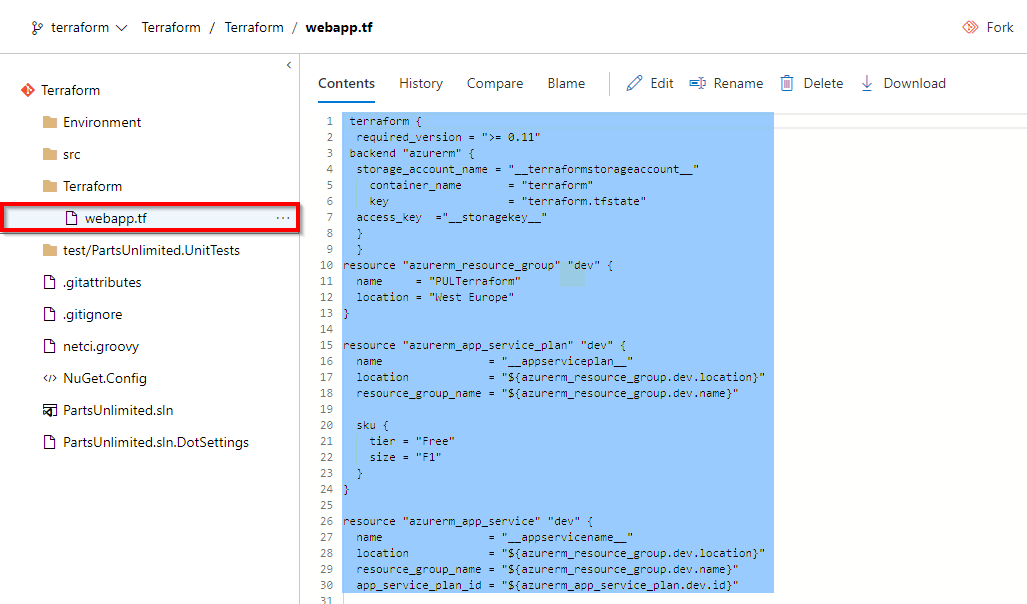
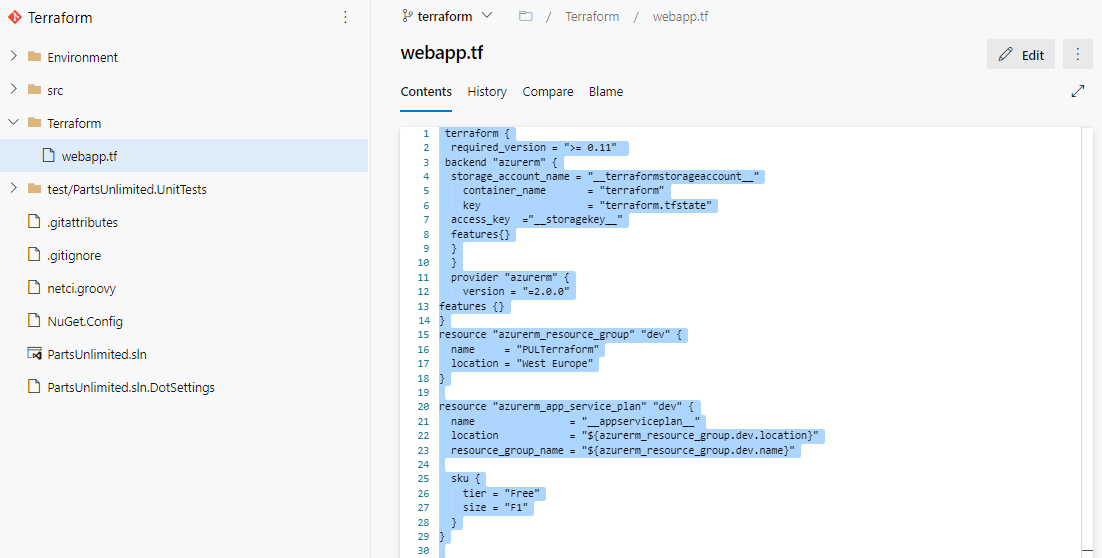
Fixed terraform template issues (#399)

diff --git a/labs/vstsextend/terraform/readme.md b/labs/vstsextend/terraform/readme.md
@@ -1,5 +1,5 @@
 ---
-title: Automating your infrastructure deployments in the Cloud with Terraform and Azure Pipelines
+title: Automating infrastructure deployments in the Cloud with Terraform and Azure Pipelines
 layout: page
 sidebar: vsts2
 permalink: /labs/vstsextend/terraform/
@@ -134,7 +134,7 @@ In this exercise, you will create azure resources using Terraform as part of you
    iii. Apply the changes described by the plan.
     
     The next Terraform tasks in your release pipeline help you to implement this workflow.
-1. Select the **Terraform init** task. Select Azure service connection from the drop-down. And make sure the container name is selected as **terraform**. For the other task parameters information see [here](https://github.com/microsoft/azure-pipelines-extensions/blob/master/Extensions/Terraform/Src/Tasks/TerraformTaskV1/README.md)
+1. Select the **Terraform init** task. Select Azure service connection from the drop-down. And make sure to enter the container name  as **terraform**. For the other task parameters information see [here](https://github.com/microsoft/azure-pipelines-extensions/blob/master/Extensions/Terraform/Src/Tasks/TerraformTaskV1/README.md)
        
       ![](images/terraform-init2.png)
 
